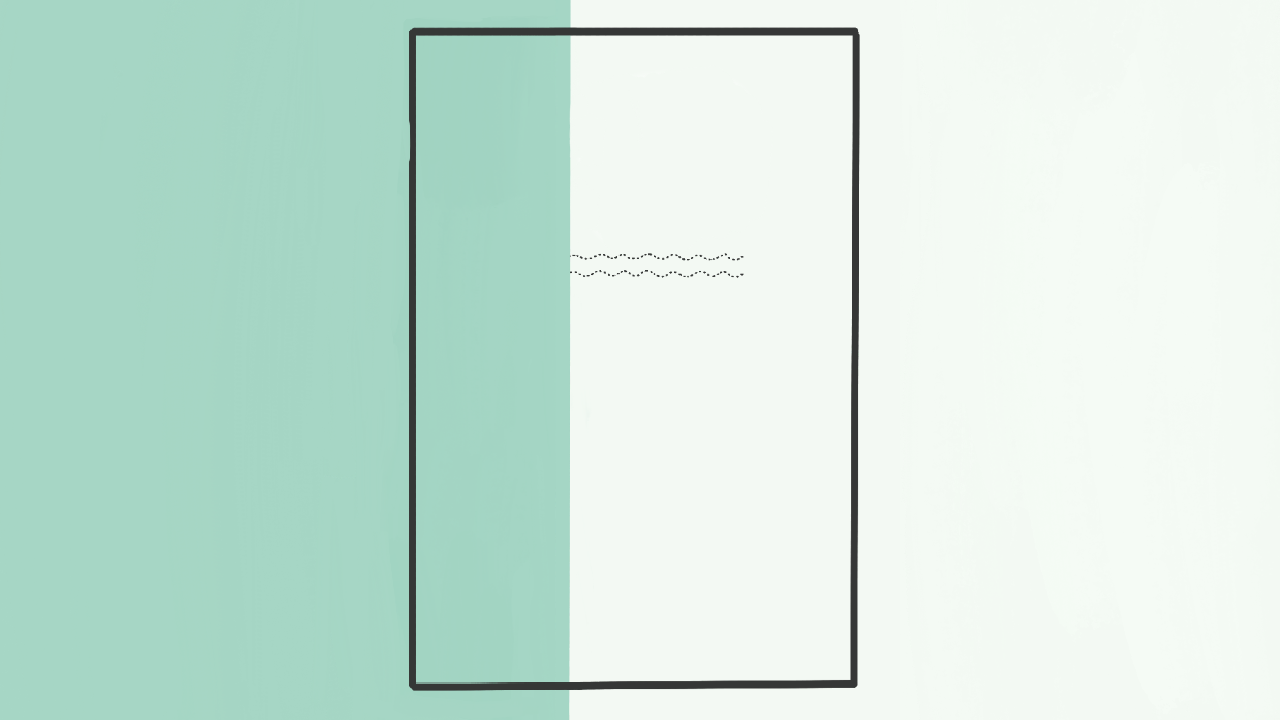
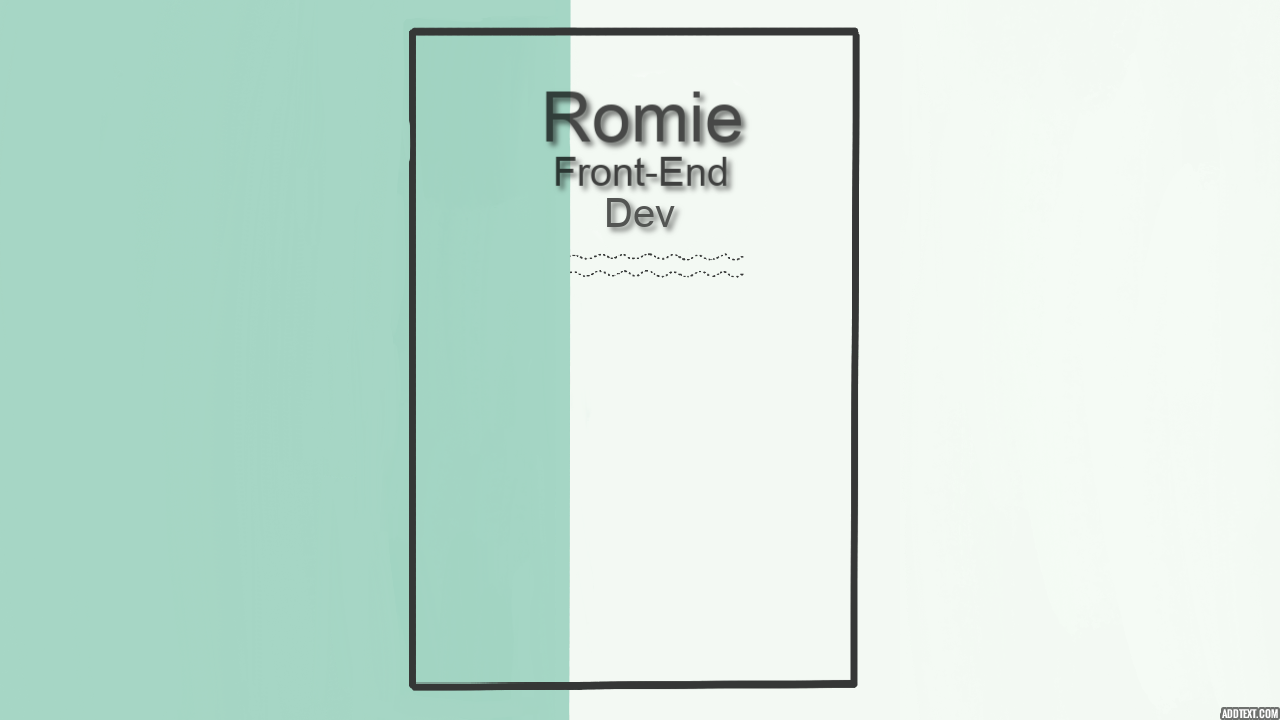
Updated homepage image with gif

Changed region(s): [[0.4062, 0.1222, 0.5938, 0.3361], [0.9375, 0.9778, 1.0, 1.0]]

diff --git a/index.html b/index.html
@@ -56,9 +56,9 @@
     </div>
 </nav>
     
-    
-   
-      <img src="images/portfolio-header.png" alt="background of portfolio" class="background-header"/>
+<img src="images/header-animation.gif" alt="background of portfolio" class="background-header mt-5"/>
+
+
      </div>
             
 </body>

diff --git a/src/styles.css b/src/styles.css
@@ -49,6 +49,10 @@ body {
     background-position: center;
     background-repeat: no-repeat;
     background-size: 100%;
+    display: block;
+  margin-left: auto;
+  margin-right: auto;
+  width: 50%;
 }
 
   
